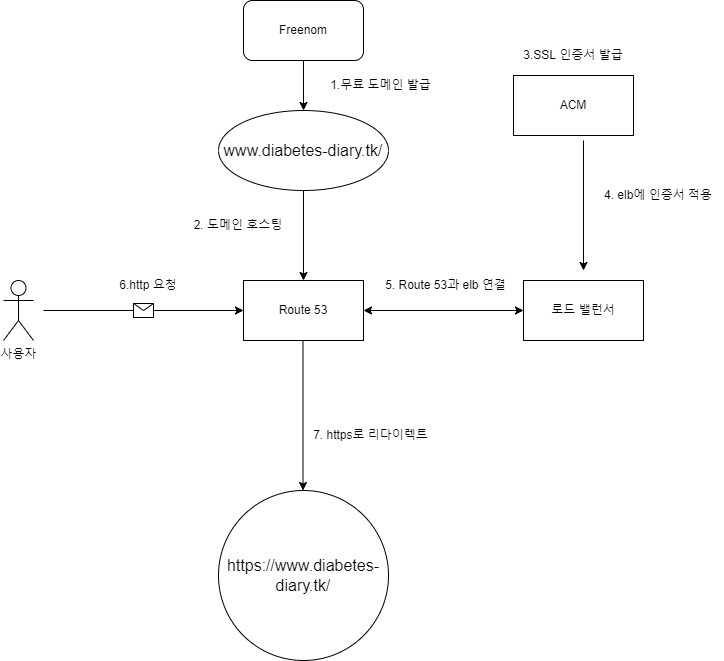
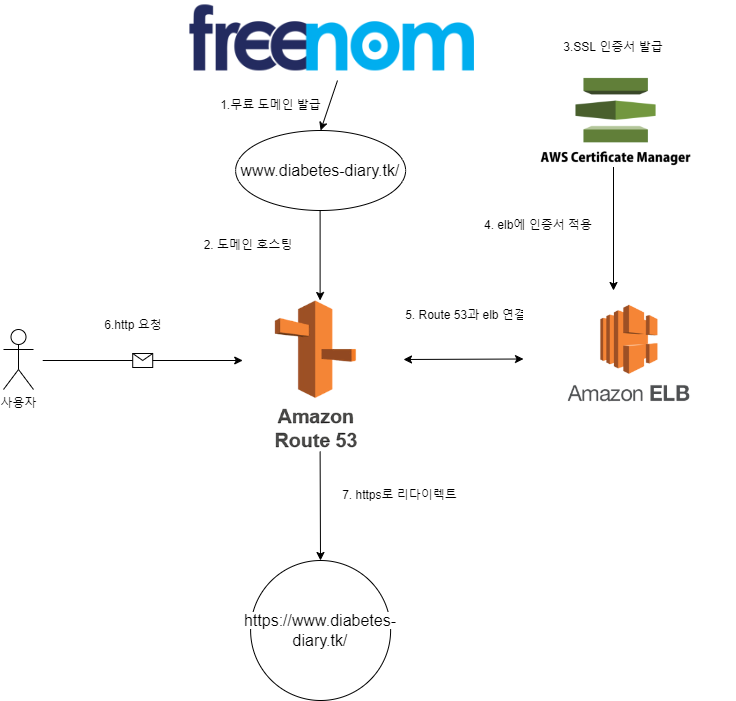
1. 다이어그램 logo로 변경. 2. 리드미 업데이트 (github actions 추가)

diff --git a/README.md b/README.md
@@ -1,7 +1,7 @@
 # __Diabetes Diary API Remake__
 
 ## 버전 : 1.1.0
-
+***
 ### 웹 사이트 주소 ###
 
 https://www.diabetes-diary.tk/
@@ -26,7 +26,50 @@ https://velog.io/@dasd412/series/%ED%8F%AC%ED%8A%B8%ED%8F%B4%EB%A6%AC%EC%98%A4
 
 ### API end point
 
-https://github.com/dasd412/RemakeDiabetesDiaryAPI/wiki/API-Endpoint
+#### Controller
++ IndexController
+  + ` GET "/" ` -> 대문 화면
+  + ` GET "" `  -> 대문 화면
+
++ LoginController
+  + `GET "/login-form" `
+  + `GET "/join-form" `
+
++ CalendarFormController
+  + `GET "/calendar" `
+
++ ChartFormController
+  + `GET "/chart-menu" `
+  + `GET "/chart-menu/chart/fasting-plasma-glucose" `
+  + `GET "/chart-menu/chart/blood-sugar" `
+  + `GET "/chart-menu/chart/average" `
+  + `GET "/chart-menu/chart/food-board/list" `
+
++ DiaryFormController
+  + `GET "/post" `
+  + `GET "/update-delete/{diaryId}" `
+  + `GET "/update-delete/404" ` [circular view path 해결용]
+  
+#### REST Controller
+
++ LoginRestController
+  + `POST "/signup/user" `
+
++ SecurityDiaryRestController
+  + `POST "/api/diary/user/diabetes-diary" `
+  + `PUT "/api/diary/user/diabetes-diary" `
+  + `DELETE "/api/diary/user/diabetes-diary/{diaryId}" `
+  + `GET "/api/diary/user/diabetes-diary/list" `
+
++ SecurityChartRestController
+  + `GET "/chart-menu/fasting-plasma-glucose/all" `
+  + `GET "/chart-menu/fasting-plasma-glucose/between" `
+  + `GET "/chart-menu/blood-sugar/all" `
+  + `GET "/chart-menu/blood-sugar/between" `
+  + `GET "/chart-menu/average/all" `
+  + `GET "/chart-menu/average/between" `
+
+***
 
 ### 디렉토리 구조
 
@@ -34,7 +77,7 @@ https://github.com/dasd412/RemakeDiabetesDiaryAPI/wiki/API-Endpoint
     + https://github.com/dasd412/RemakeDiabetesDiaryAPI/wiki/backend-directory
 + Frontend
     + https://github.com/dasd412/RemakeDiabetesDiaryAPI/wiki/frontend-directory
-
+***
 ### 다이어그램
 
 + ERD
@@ -48,8 +91,62 @@ https://github.com/dasd412/RemakeDiabetesDiaryAPI/wiki/API-Endpoint
   
 ### 진행 상황 ###
 
-https://github.com/dasd412/RemakeDiabetesDiaryAPI/wiki/progress
++ 데이터 재설계 및 JPA 적용
+  + DB 스키마 재설계
+  + JPA 연관관계 재맵핑
+  + JPA Repository 테스트 코드 작성 및 수행
+  + 서비스 레이어 생성
+  + JPQL @Query 코드 제거 후, QueryDSL 적용. 기존 테스트를 수행하여 정상 작동하는 지 확인하며 진행
+  + 컨트롤러 레이어 생성
+  + MockMvc 를 활용하여 컨트롤러 레이어 테스트 수행
+  + n+1 문제 최적화 수행
+  + 삭제 연산 최적화 수행 [벌크 연산 처리]
+  + MySql 연동 완료
+  + 삽입 연산 최적화 수행
+  + 음식 엔티티에 수량 단위 추가 [요구사항 반영]
+  + 중복 QueryDSL 코드 BooleanBuilder로 리팩토링. [BooleanBuider를 활용한 동적 쿼리 생성]
 
+
++ 스프링 시큐리티
+  + 일반 회원가입과 로그인 구현
+  + OAuth 로그인 및 회원 가입 구현
+  + 기존 도메인 테스트에 스프링 시큐리티 적용 [관리자만 접근 가능하도록 변경]
+  + 도메인 컨트롤러 매핑 url 에서 작성자 정보 제거하고 세션으로 판단하기
+  + 아이디 찾기 , 비밀번호 찾기 구현(예정, 기존 이메일 서비스 활용할 듯.)
+  + 시큐어 코딩(예정)
+
+
++ 뷰
+  + 공통 메뉴 레이아웃 추가
+  + 로그인 폼 추가
+  + 회원 가입 폼 추가
+  + 작성용 폼 생성 및 ajax 로직 추가
+  + 수정 / 삭제용 폼 생성 및 ajax 로직 추가
+  + 달력과 연동
+  + 검색기능 만들고 그 결과로 차트 생성하기
+  + 작성용 폼 더 이쁘게 만들기
+  + 음식 검색 게시판 만들기
+
++ 배포
+  + amazon ec2 인스턴스 생성
+  + amazon rds 생성 및 연동
+  + aws 내에 jar 배포 완료
+  + Freenom 과 aws route 53으로 무료 도메인 얻음.
+  + acm 에서 무료 ssl 발급 받음
+  + 사이트에 https 적용
+  + oauth 로그인 리디렉션 url 변경 (크롬 브라우저 등에서 피싱 사이트 의심 발생. 조치 필요.)
+  + travis ci 와 code deploy 를 활용하여 배포 자동화 [master branch 푸시하면 자동 배포됨.]
+  + travis ci trial plan 만료로 인해 github actions로 바꾸었다.
+
+
++ 문서화
+  + Readme
+  + 코드 내 주석 처리 [JavaDoc 기준]
+  + 다이어그램 작성 및 게시
+  + dto에 swagger 입히기 (예정)
+
+***
+  
 ### 테스트 커버리지 ###
 + (2022-02-13 전체 패키지 기준)
   + 테스트 총 154개
@@ -98,7 +195,8 @@ https://github.com/dasd412/RemakeDiabetesDiaryAPI/wiki/progress
 + Mustache, css
 + JQuery 
 + AWS (ec2, route 53, ACM, rds, code deploy )
-+ travis ci
++ travis ci [trial plan 만료로 인해 사용 중지]
++ github actions
 
 ### 사용 라이브러리
 
